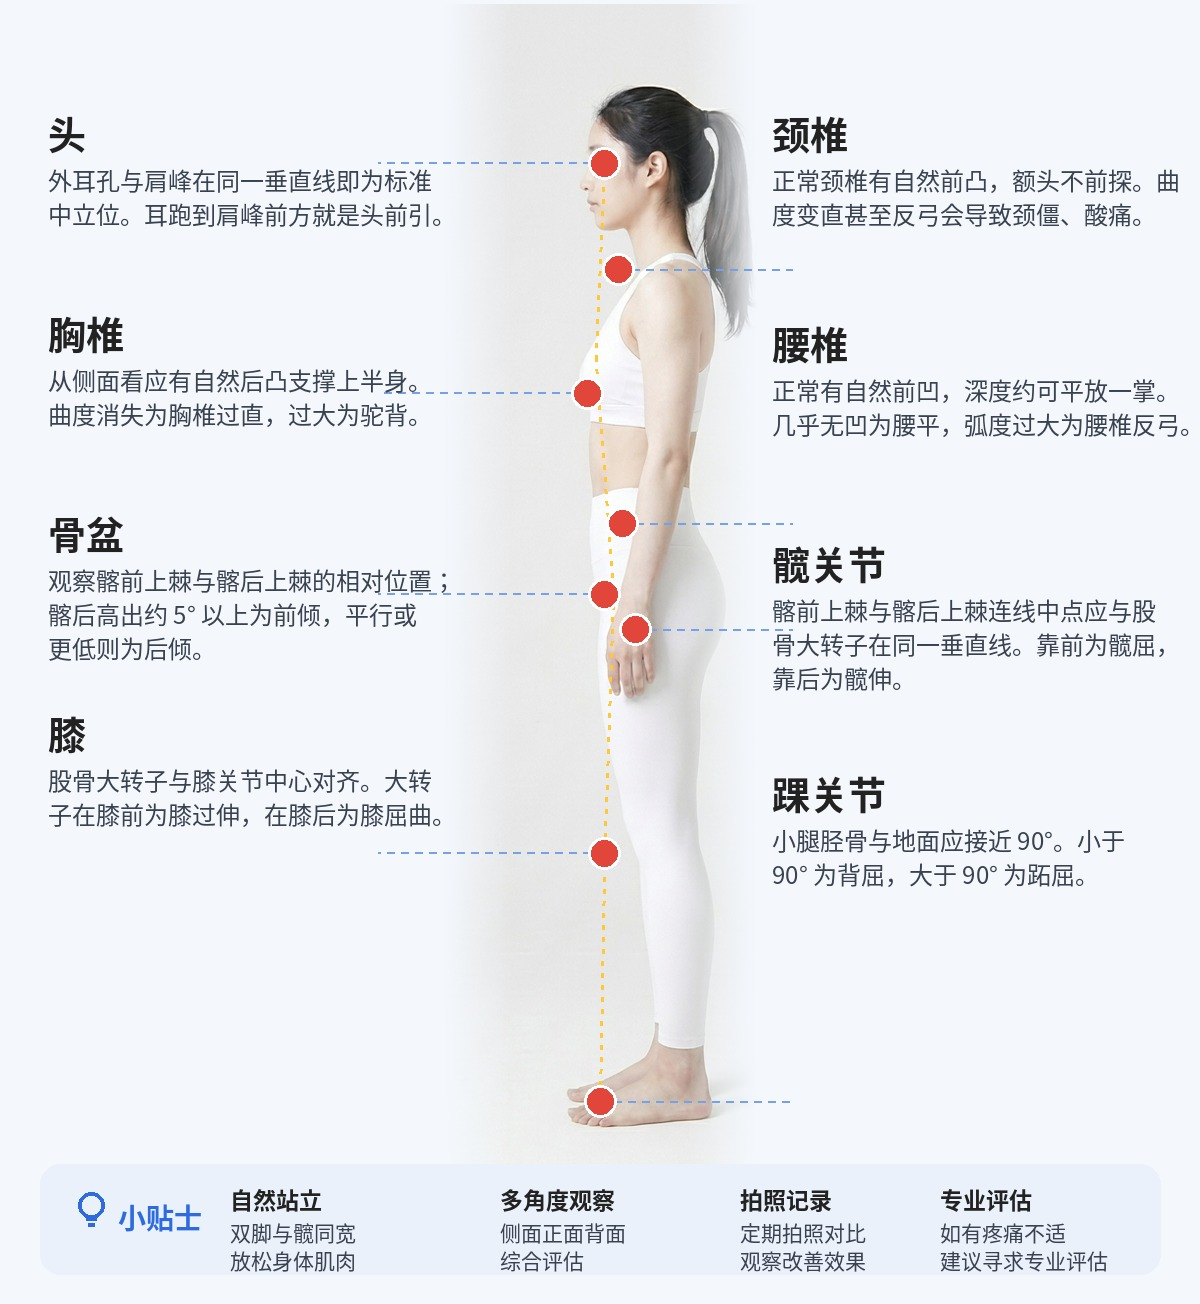
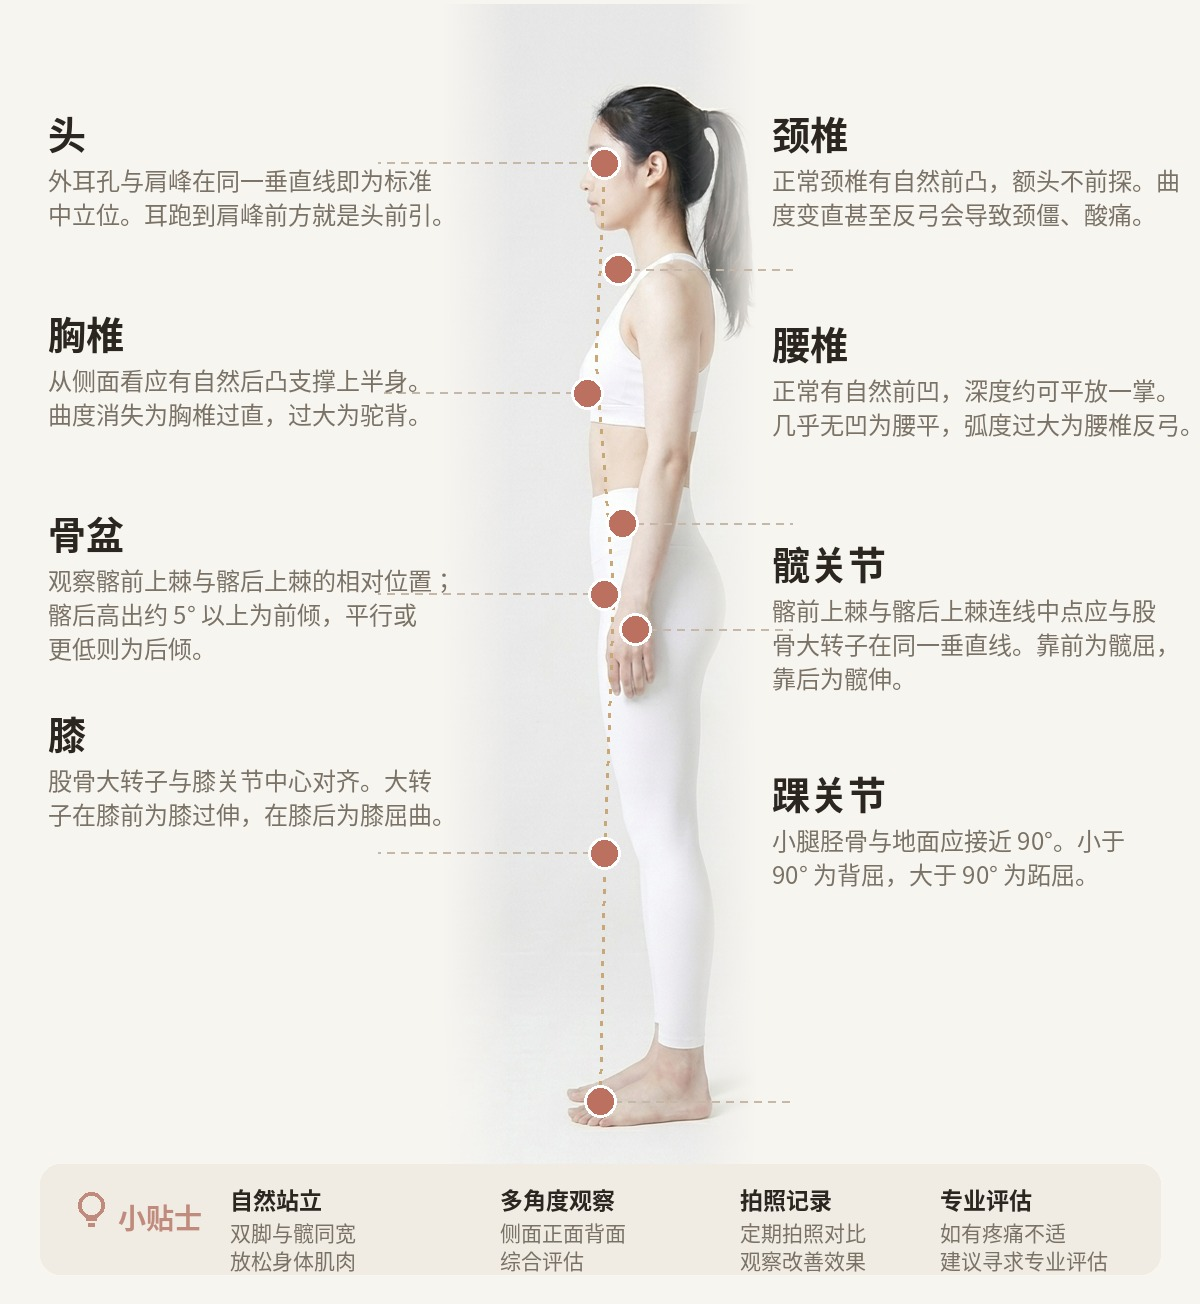
Restyle posters to unified warm palette (remove blue)

diff --git a/backend/tools/make_pose_posters.py b/backend/tools/make_pose_posters.py
@@ -7,12 +7,15 @@ FB = "/usr/share/fonts/opentype/noto/NotoSansCJK-Bold.ttc"
 FR = "/usr/share/fonts/opentype/noto/NotoSansCJK-Regular.ttc"
 FM = "/usr/share/fonts/opentype/noto/NotoSansCJK-Medium.ttc"
 
-BLUE = (47, 107, 224)
-DARK = (34, 34, 34)
-GREY = (58, 66, 80)
-RED  = (226, 69, 58)
-BG   = (244, 248, 253)
-CARD = (234, 241, 251)
+# 统一暖色极简风（与 App 主题一致），去蓝
+BLUE = (192, 138, 125)   # 主强调色：暖陶土（沿用变量名）
+DARK = (43, 39, 32)      # 标题深褐
+GREY = (122, 114, 102)   # 正文暖灰
+RED  = (188, 112, 96)    # 标志点：陶土红
+BG   = (247, 245, 240)   # 背景暖白
+CARD = (240, 236, 228)   # 卡片暖灰底
+CONN = (198, 184, 168)   # 连线暖灰
+GOLD = (200, 168, 120)   # 侧面对齐线（暖金）
 
 def font(path, sz): return ImageFont.truetype(path, sz)
 
@@ -89,7 +92,7 @@ def build(view, photo_path, out_path, *, crop, dots, left_cards, right_cards,
     if align_pts:
         pts=[to_cv(*p) for p in align_pts]
         for a,b in zip(pts,pts[1:]):
-            dashed_line(d,a,b,(255,200,60),3,4,8)
+            dashed_line(d,a,b,GOLD,3,4,8)
 
     # ---- 标题 + 评估要点框（header=False 时整块省略并裁掉顶部）----
     if header:
@@ -116,7 +119,7 @@ def build(view, photo_path, out_path, *, crop, dots, left_cards, right_cards,
         else:
             tx=772; cardx=792; ax=cardx
         # connector
-        dashed_line(d,c,(ax, c[1]),BLUE+(0,) if False else (120,160,230),2,7,7)
+        dashed_line(d,c,(ax, c[1]),CONN,2,7,7)
         # number + head
         hy=head_y[ (side,key) ]
         if num:
